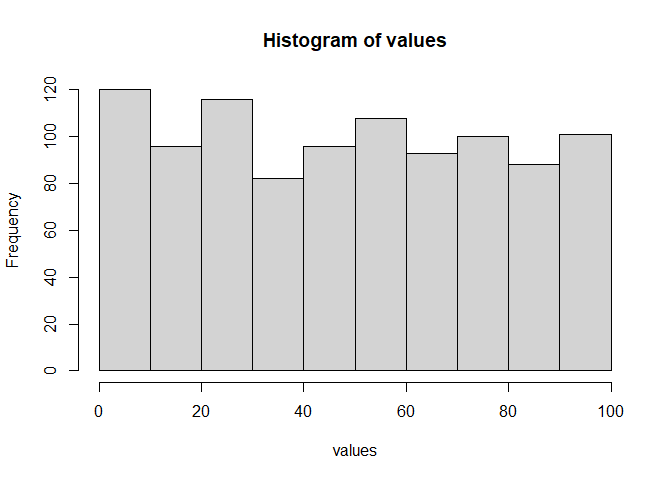
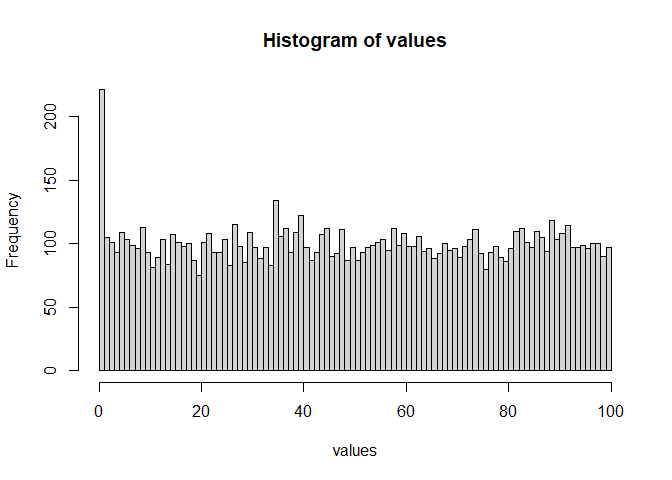
started to include a text

diff --git a/sbc.md b/sbc.md
@@ -1,7 +1,7 @@
 sbc
 ================
 Christian Barz
-created 2021-05-27, updated: 2021-05-27
+created 2021-05-27, updated: 2021-05-28
 
 -   [to dos](#to-dos)
 -   [sbc](#sbc)
@@ -28,7 +28,7 @@ created 2021-05-27, updated: 2021-05-27
 
 ``` r
 L <- 100 # number of posterior draws
-N <- 1000 # 
+N <- 10000 # 
 parameters <- 1 # additional parameters, e.g. predictor matrix or hyperparameters
 ```
 
@@ -154,7 +154,7 @@ values <- sbc(
 ### analyse values
 
 ``` r
-hist(values)
+hist(values, breaks = L)
 ```
 
 ![](sbc_files/figure-gfm/unnamed-chunk-9-1.png)<!-- -->
